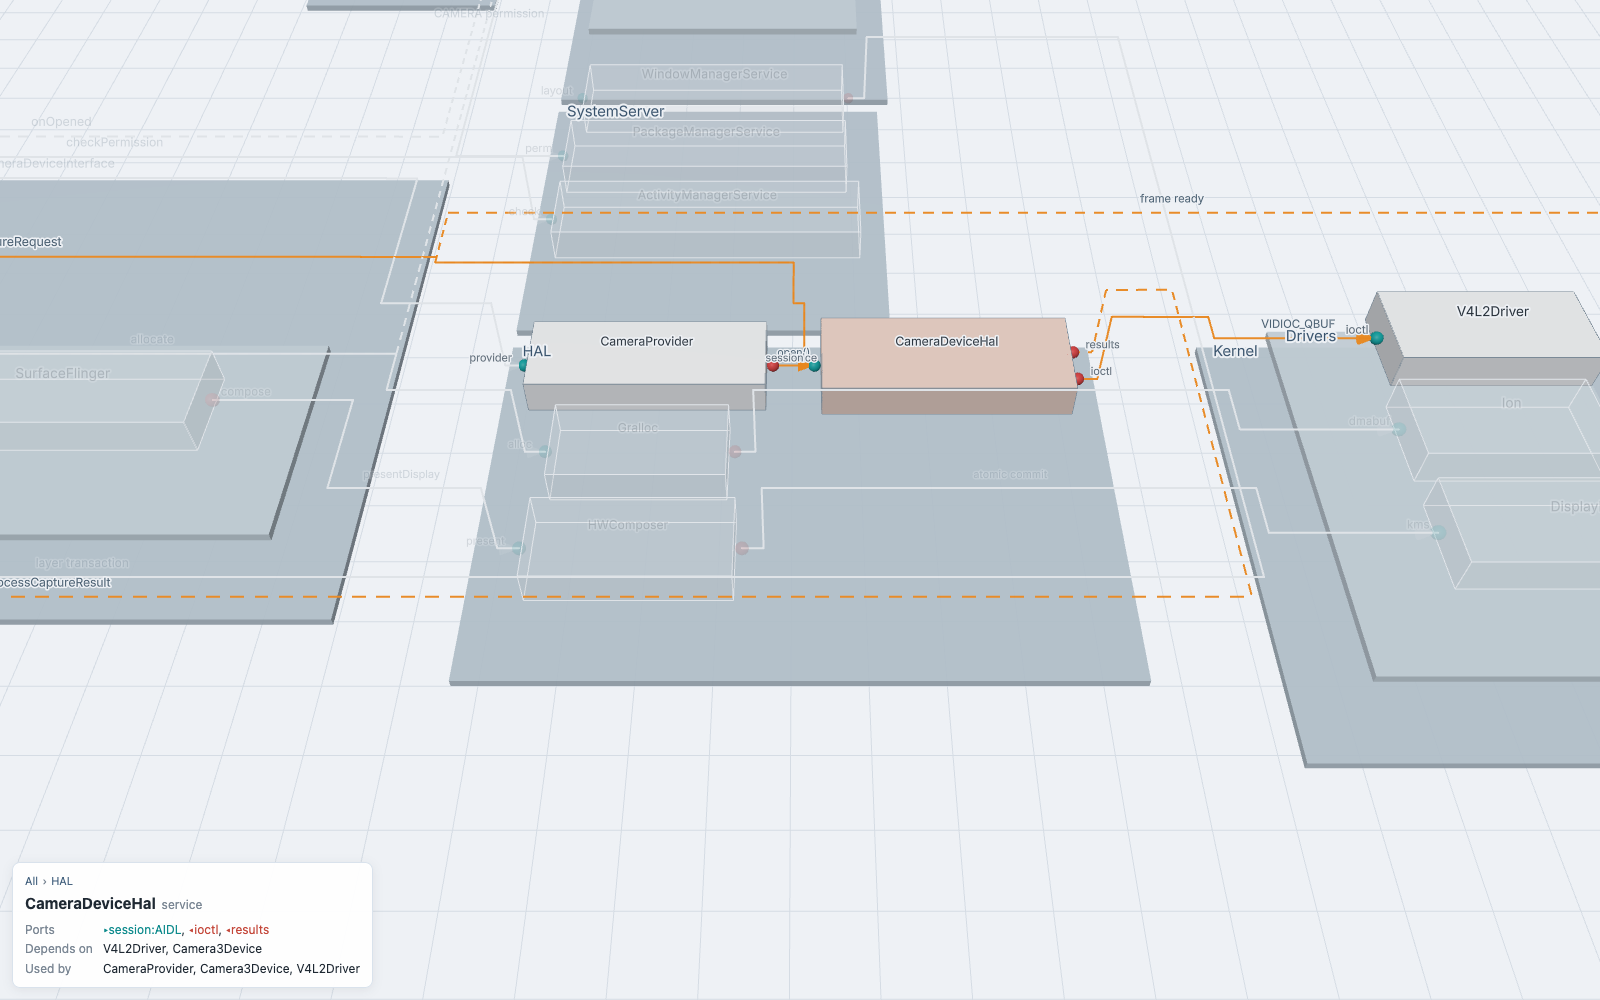
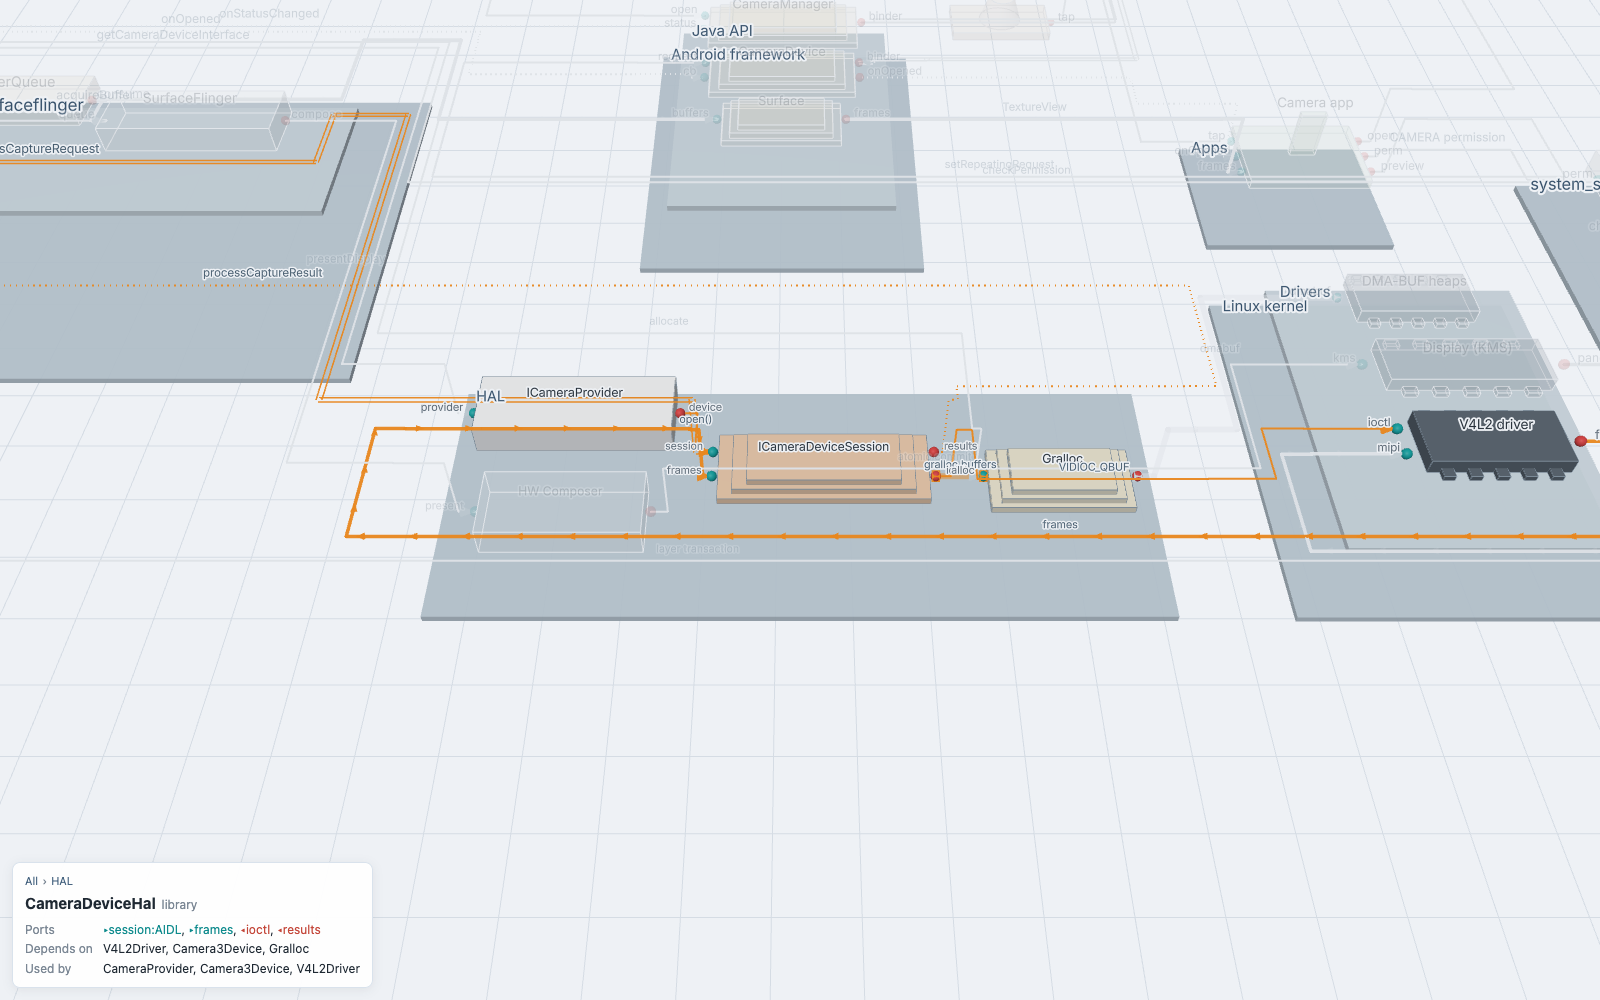
Update READMEs and extension pictures

diff --git a/README.md b/README.md
@@ -6,31 +6,42 @@
 
 <p align="center">See your software architecture in 3D.</p>
 
-You describe your system in a small text file: components, their ports and the links between
+You describe your system in a small text file: elements, their ports and the links between
 them. Archi3D shows it in 3D. Containers are drawn as levels on top of each other, so you can see
 the nesting. You can rotate, zoom in and click on things.
 
-![AOSP camera stack in Archi3D](examples/07-aosp-camera.png)
+![Every element and link kind in Archi3D](examples/09-legend.png)
 
 A model looks like this:
 
 ```
+user User "Shopper"
 system Shop {
+  app Mobile "Shop app"
   container Backend {
     service Orders    in: api      out: db, pay
     database OrderDB  in: db
+    topic Events "Order events"
   }
 }
 external Payments   in: charge
 
+User       -> Mobile : tap
+Mobile    <=> Orders.api : WebSocket
 Orders.db  -> OrderDB.db
 Orders.pay -> Payments.charge : HTTPS
+Orders     ~> Events : OrderPlaced
 ```
+
+The keyword (`user`, `app`, `service`, `database`, `topic`...) picks the shape, and the arrow picks
+how the link looks: `->` call, `=>` message, `~>` event, `<=>` session, `>>` stream, `<>` shared.
+The same short list works for Android, AOSP and Linux. See the [user guide](docs/USER_GUIDE.md#3-the-language).
 
 ## Features
 
 - Edit the model in the browser and see the 3D view update while you type. Errors are underlined.
 - Click to select, double click to fly in. Big models close their containers when you zoom out.
+- Hide the editor (button or key `E`) to give the 3D view the whole window.
 - Import Mermaid `architecture-beta` and D2 files.
 - Export one HTML file that works offline (`npm run export`).
 - Render a PNG from the command line (`npm run render -- model.arch3d`).
@@ -57,8 +68,8 @@ while you type and can save the view as PNG or as an offline HTML file. Install 
 
 ## Docs
 
-- [User guide](docs/USER_GUIDE.md): how to use the app, the language, examples (also an Android
-  app and the AOSP camera stack), import/export, all scripts, WSL and VS Code.
+- [User guide](docs/USER_GUIDE.md): how to use the app, the language, examples (an Android
+  app, the AOSP camera stack, a Linux desktop and a legend), import/export, all scripts, WSL and VS Code.
 - [Deployment](docs/DEPLOY.md): put it on your own domain.
 - [Grammar](docs/GRAMMAR.md) and [architecture](docs/ARCHITECTURE.md).
 - [Build plan](docs/PLAN.md): the steps I followed to build it.

diff --git a/vscode/README.md b/vscode/README.md
@@ -17,14 +17,17 @@ Install: search for "Archi3D" in the Extensions view, or run `code --install-ext
 - Save the view as PNG ("Archi3D: Save 3D Preview as PNG...").
 - Export one HTML file that works offline ("Archi3D: Export Standalone HTML...").
 - Syntax colors for `.arch3d`.
+- Element shapes for `user`, `ui`, `app`, `service`, `library`, `driver`, `kernel`, `device`,
+  `database`, `cache`, `storage`, `queue`, `topic` and `external`, and six link kinds:
+  `->` call, `=>` message, `~>` event, `<=>` session, `>>` stream, `<>` shared.
 
 Everything works offline. The layout engine and the font are inside the extension.
 
 D2 files are not supported in the preview yet. You can import them in the Archi3D web app.
 
-Examples (an Android app, the AOSP camera stack and more) and the guide for the language are in the
+Examples (an Android app, the AOSP camera stack, a Linux desktop and a legend) and the guide for the language are in the
 repo: https://github.com/Heydarchi/Archi3D
 
 License: MIT. Licenses of the libraries inside: `THIRD_PARTY_NOTICES.md`.
 
-![The preview in a dark theme](images/preview-dark.png)
+![Every element and link kind, dark theme](images/preview-dark.png)
